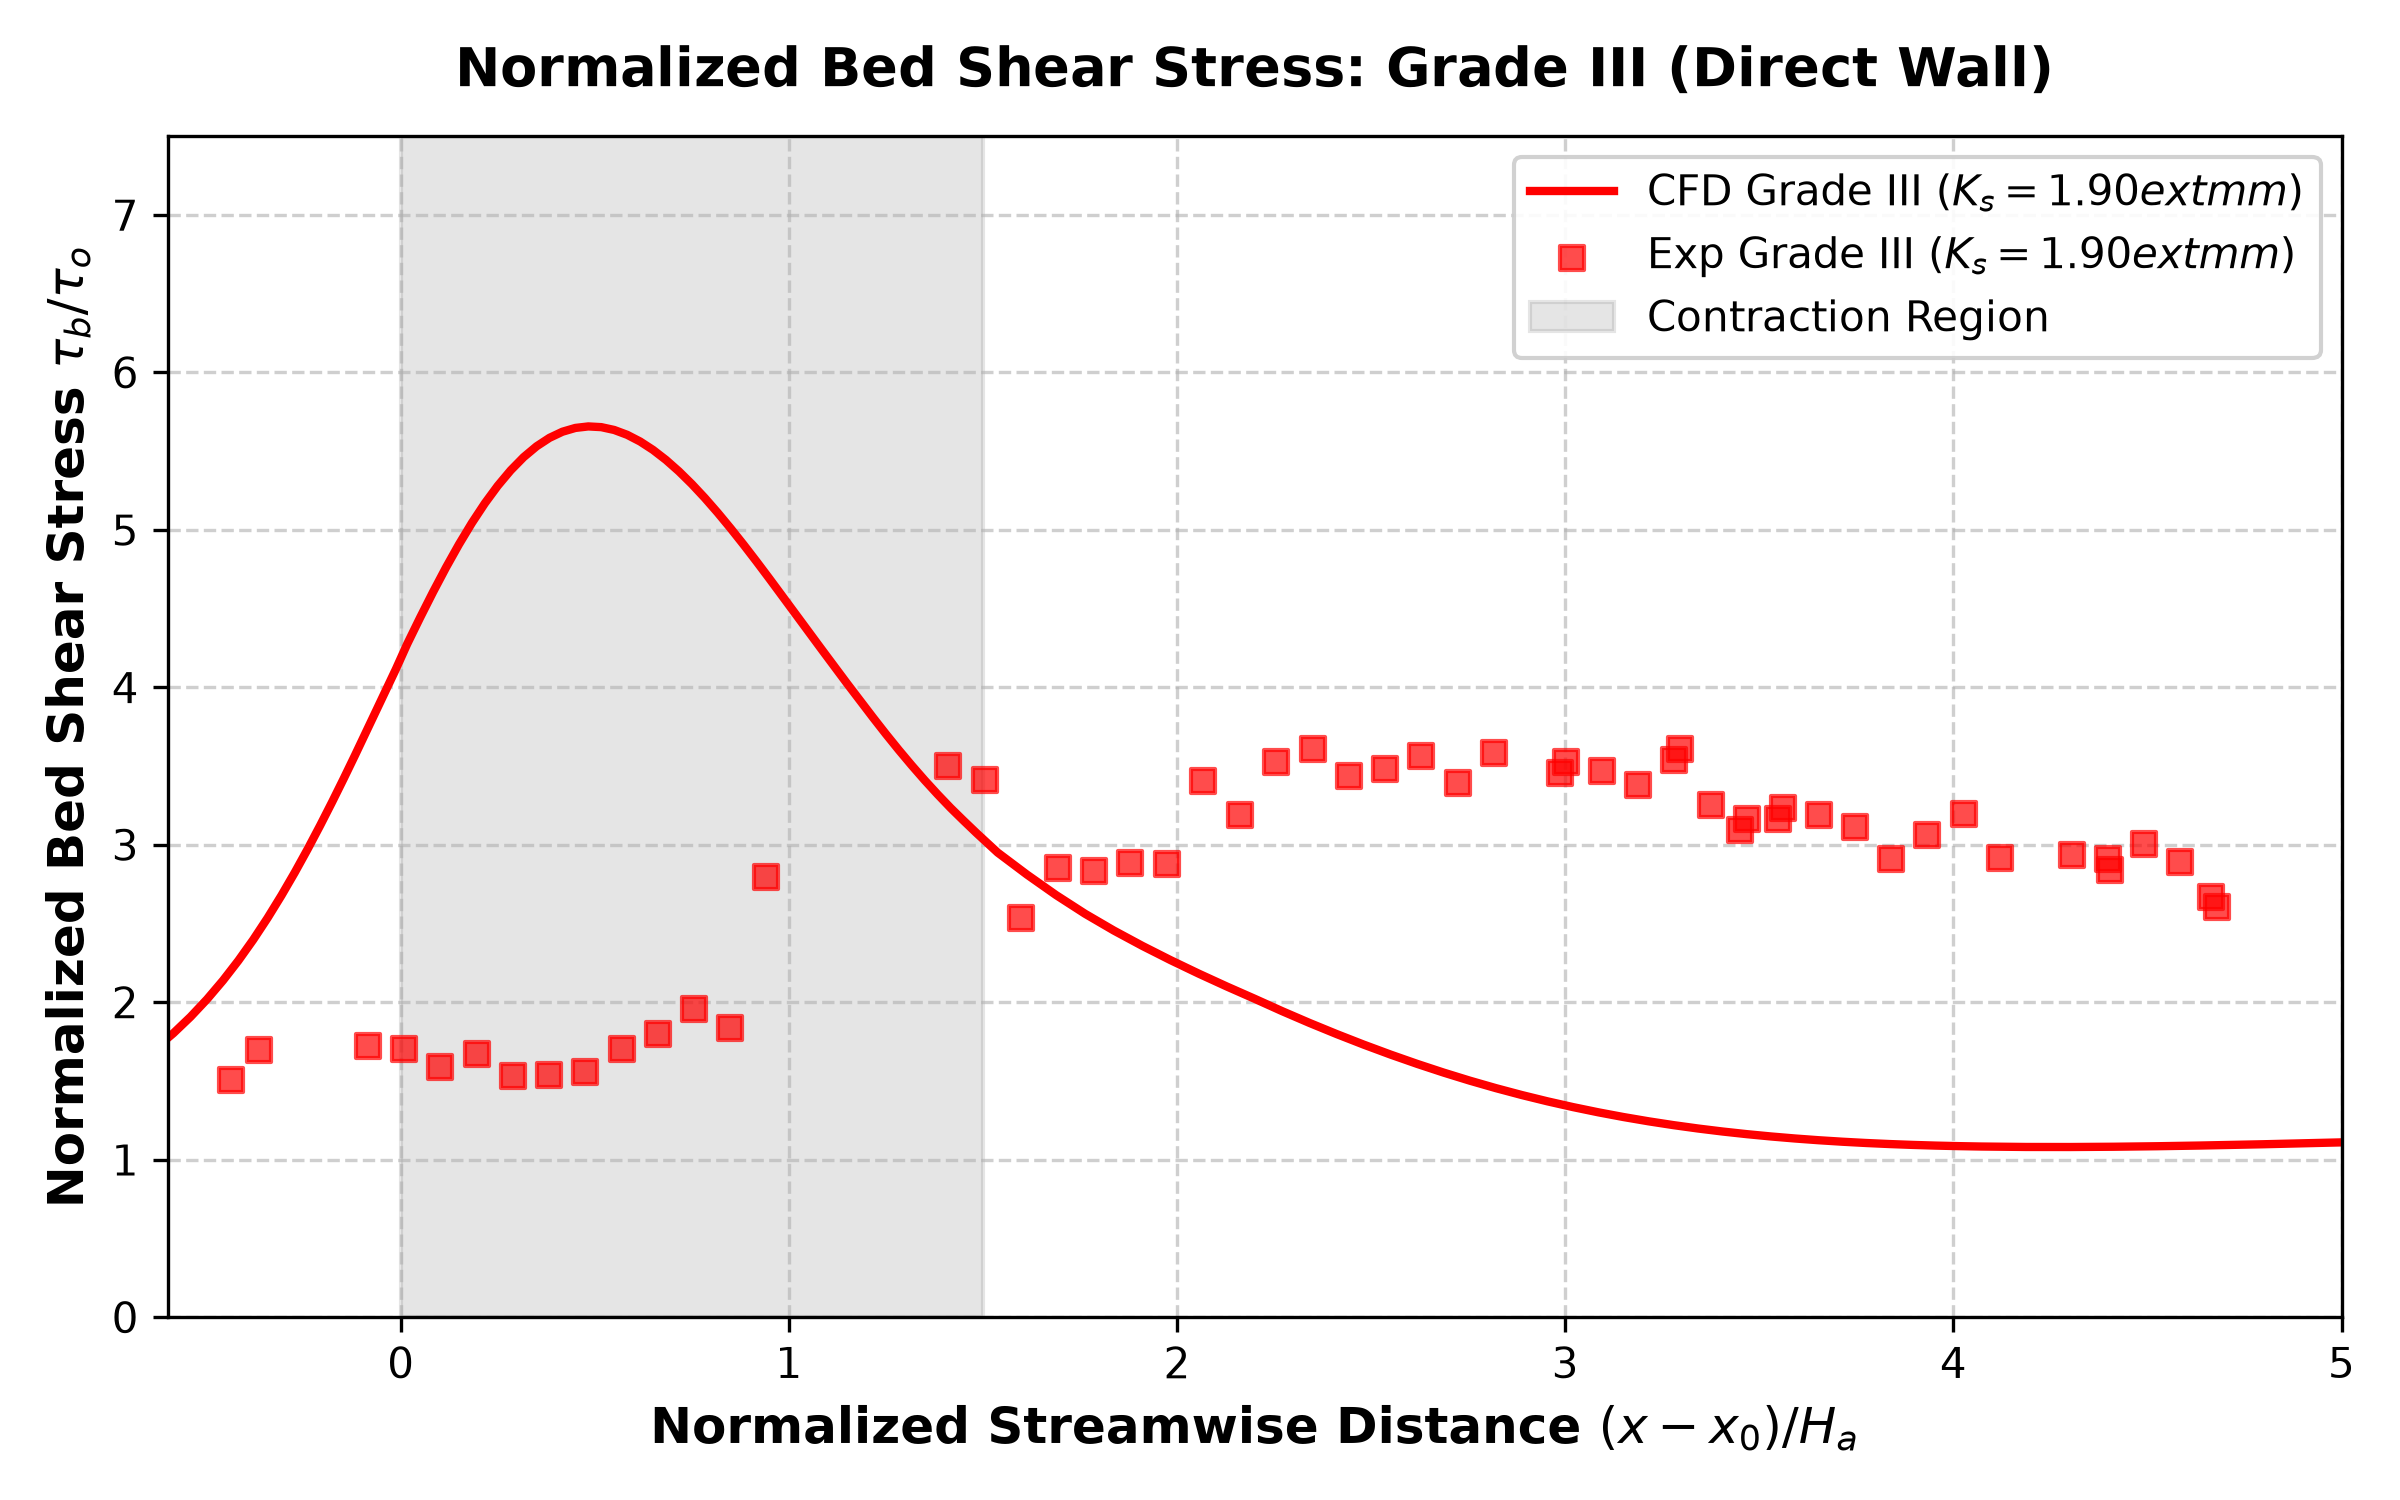
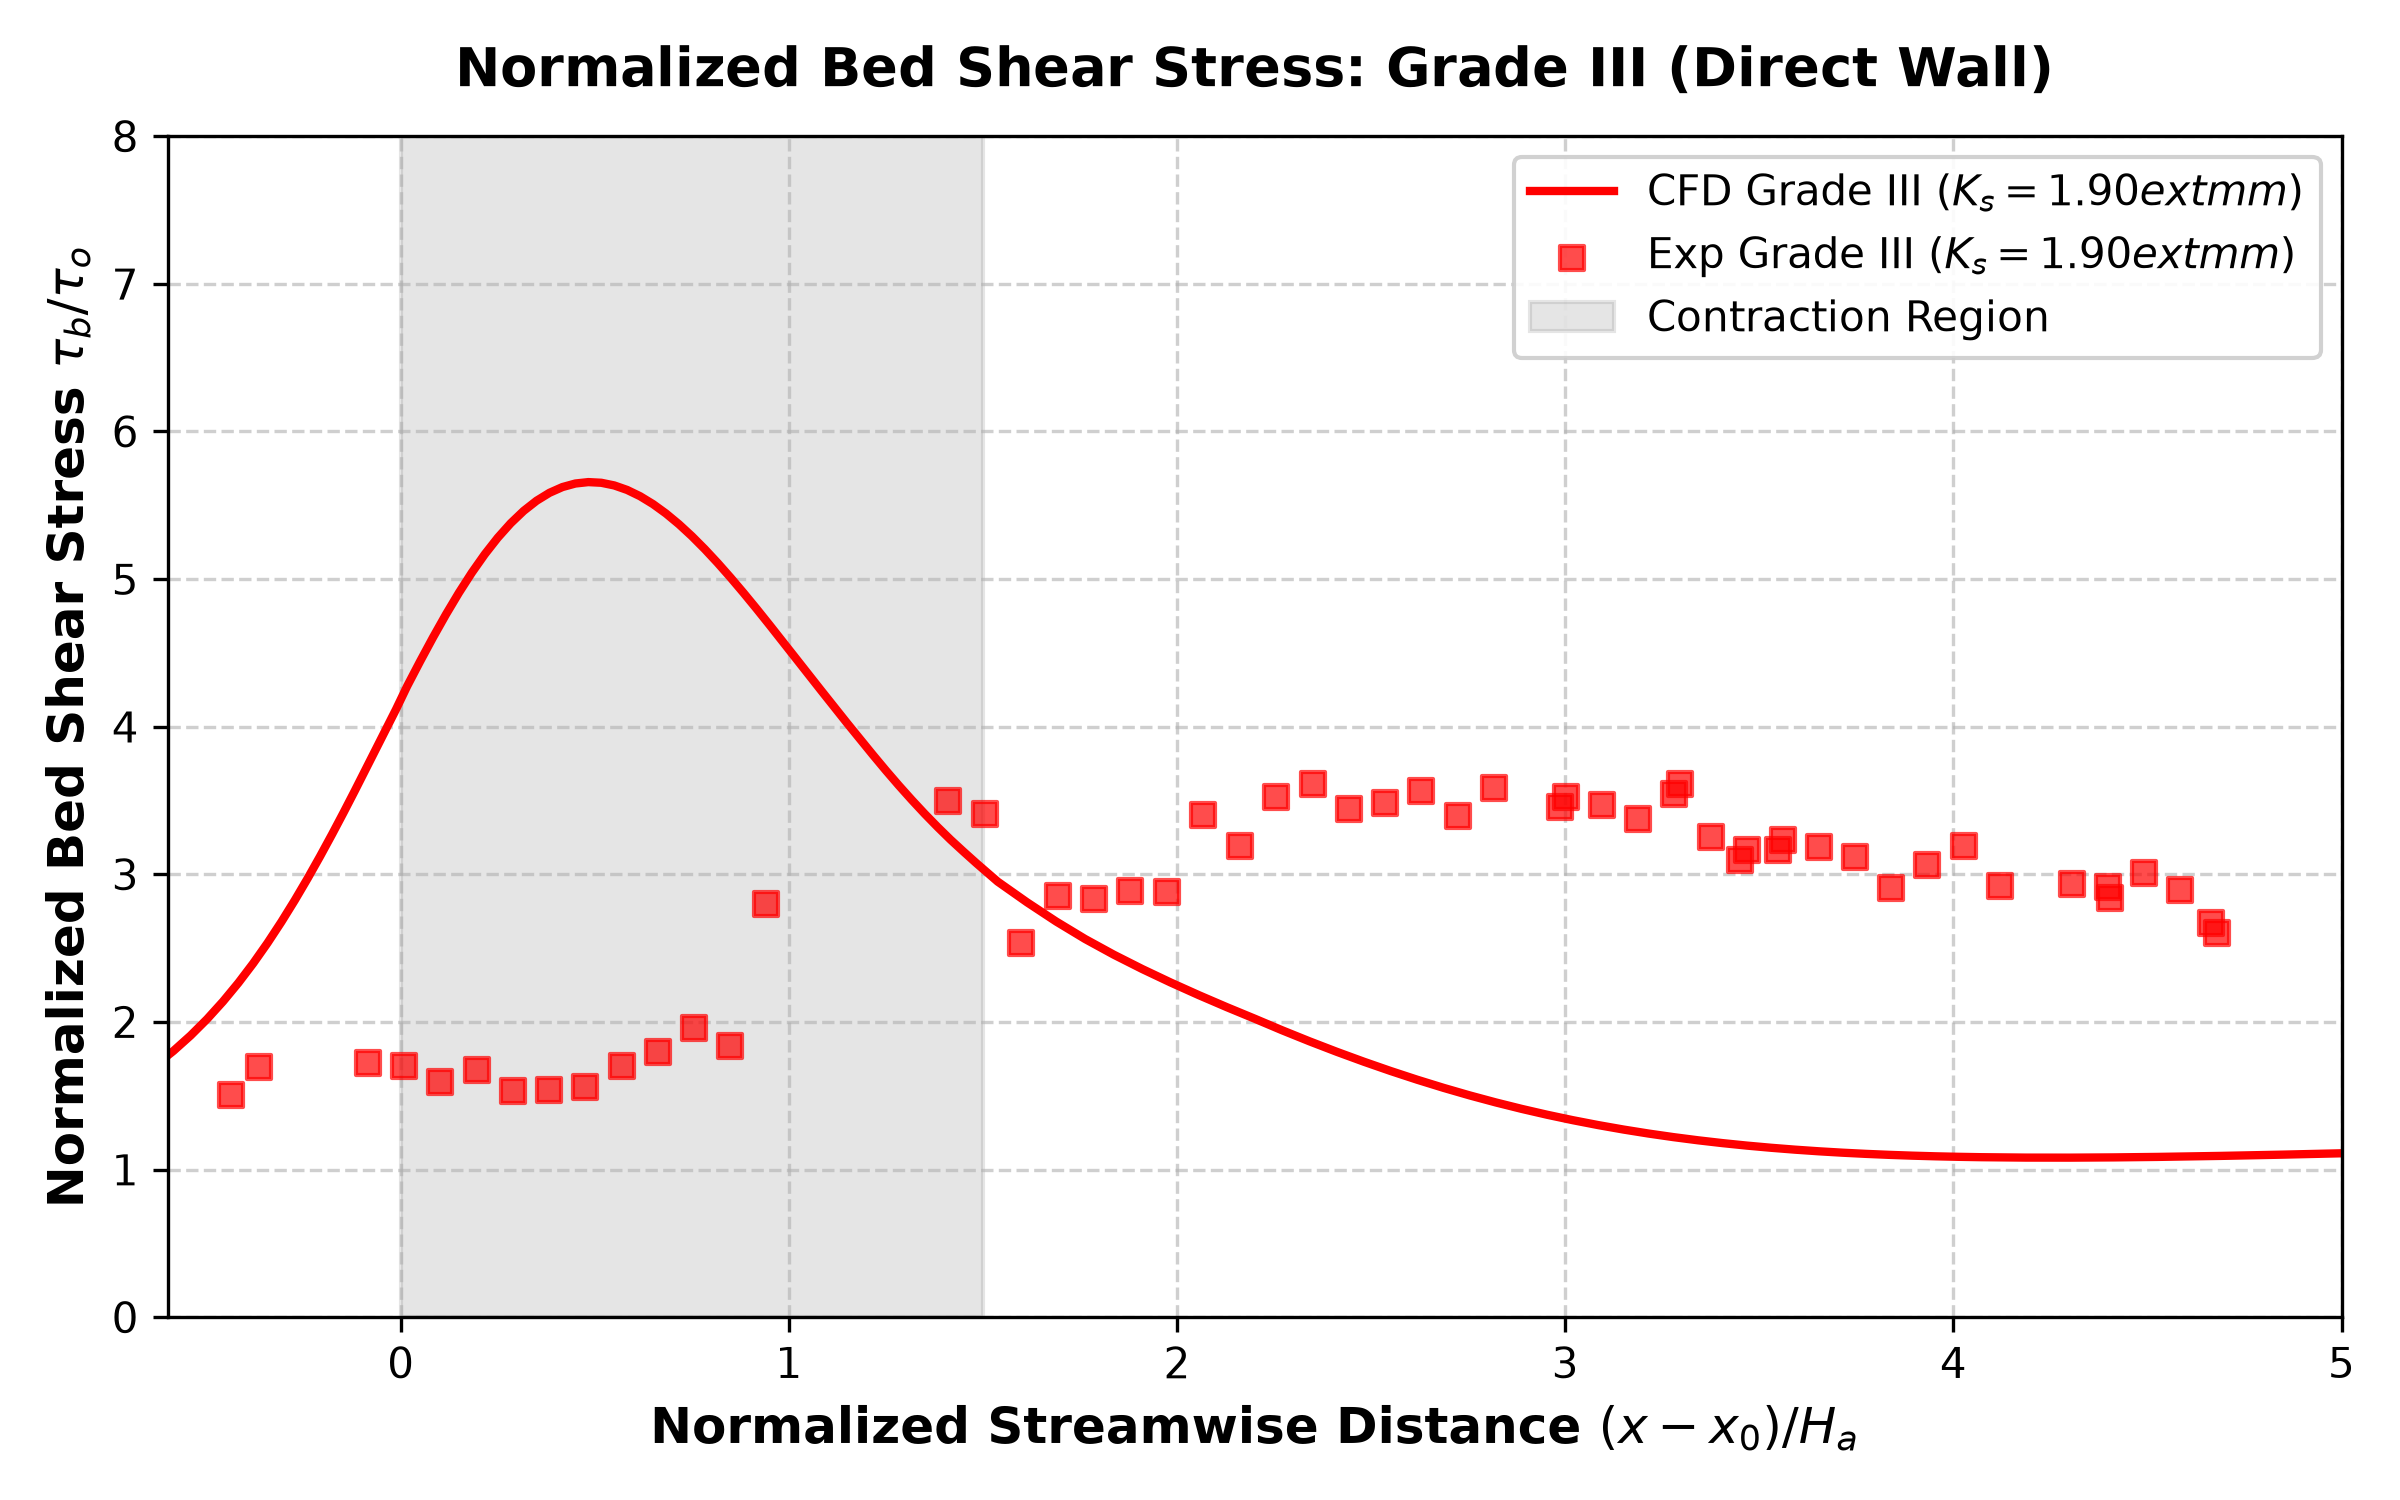
Zoom out vertical axis limits on all plots to prevent experimental data from being cut off

diff --git a/plot_comparison.py b/plot_comparison.py
@@ -121,7 +121,7 @@ for idx, (x_cfd, tau_cfd, exp_x, exp_tau, color, marker, label, limit_y, ax) in 
         ax.scatter(exp_x, exp_tau, color=color, marker=marker, s=30, alpha=0.7, label=f'Exp {label}', zorder=5)
     ax.axvspan(0.0, 1.5, color='gray', alpha=0.2, label='Contraction Region' if idx == 0 else "")
     ax.set_xlim(-0.6, 5.0)
-    ax.set_ylim(0, 7.5) # Extended limit because wall shear stress goes high
+    ax.set_ylim(0, 8.0) # Extended limit because wall shear stress goes high
     ax.set_xlabel('Normalized Streamwise Distance $(x - x_0)/H_a$', fontsize=11, fontweight='bold')
     if idx == 0:
         ax.set_ylabel('Normalized Bed Shear Stress $\\tau_b / \\tau_{o}$', fontsize=11, fontweight='bold')
@@ -144,7 +144,7 @@ def generate_individual_plot(x_cfd, tau_cfd, exp_x, exp_tau, color, marker, labe
         plt.scatter(exp_x, exp_tau, color=color, marker=marker, s=35, alpha=0.7, label=f'Exp {label}', zorder=5)
     plt.axvspan(0.0, 1.5, color='gray', alpha=0.2, label='Contraction Region')
     plt.xlim(-0.6, 5.0)
-    plt.ylim(0, 7.5 if is_wall else 3.5)
+    plt.ylim(0, 8.0 if is_wall else 4.0)
     plt.xlabel('Normalized Streamwise Distance $(x - x_0)/H_a$', fontsize=12, fontweight='bold')
     plt.ylabel('Normalized Bed Shear Stress $\\tau_b / \\tau_{o}$', fontsize=12, fontweight='bold')
     plt.title(title, fontsize=13, fontweight='bold', pad=12)
@@ -194,7 +194,7 @@ for idx, (x_cfd, tau_cfd, exp_x, exp_tau, color, marker, label, limit_y, ax) in 
         ax.scatter(exp_x, exp_tau, color=color, marker=marker, s=30, alpha=0.7, label=f'Exp {label}', zorder=5)
     ax.axvspan(0.0, 1.5, color='gray', alpha=0.2, label='Contraction Region' if idx == 0 else "")
     ax.set_xlim(-0.6, 5.0)
-    ax.set_ylim(0, 3.5)
+    ax.set_ylim(0, 4.0)
     ax.set_xlabel('Normalized Streamwise Distance $(x - x_0)/H_a$', fontsize=11, fontweight='bold')
     if idx == 0:
         ax.set_ylabel('Normalized Bed Shear Stress $\\tau_b / \\tau_{o}$', fontsize=11, fontweight='bold')
@@ -236,7 +236,7 @@ if exp_x_phys_g3:
 plt.axvspan(1.0, 1.15, color='gray', alpha=0.2, label='Bridge Contraction (1.0m - 1.15m)')
 
 plt.xlim(0.8, 2.0)
-plt.ylim(0, 1.8)
+plt.ylim(0, 2.0)
 
 plt.xlabel('Streamwise Distance $x$ (m)', fontsize=12, fontweight='bold')
 plt.ylabel('Bed Shear Stress $\\tau_b$ (Pa)', fontsize=12, fontweight='bold')
